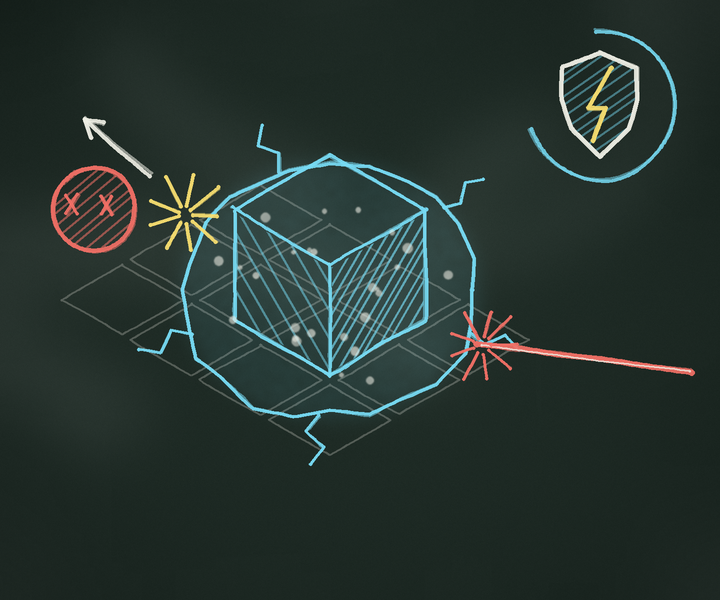
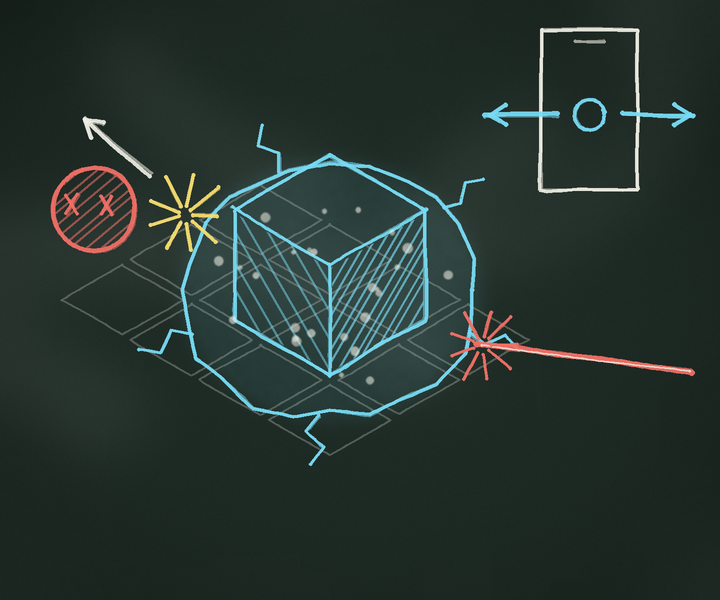
Inmunidad con deslizamiento lateral en lugar del botón
- Deslizar el dedo hacia un lado (izquierda o derecha) activa la inmunidad, con las mismas reglas que el dash y el pisotón; un dedo que se mueve sin llegar a deslizar ya no cuenta como toque en ninguna dirección.
- Se quita el botón del escudo (ImmunityButton y su icono).
- La barra de fuerza se vuelve azul eléctrico y se vacía con el tiempo de inmunidad que queda.
- Enciclopedia (texto y dibujo), consejo de carga y especificación actualizados.

Changed region(s): [[0.6722, 0.03, 0.9778, 0.33]]

diff --git a/tools/make_encyclopedia_art.py b/tools/make_encyclopedia_art.py
@@ -619,14 +619,6 @@ def draw_stomp(b):
     swipe(b, 625, 470, False)
 
 
-def shield_shape(c, s):
-    """Contorno de escudo (como el icono del botón) centrado en c, alto 2s."""
-    x, y = c
-    return [(x, y - s), (x + s * 0.72, y - s * 0.72), (x + s * 0.72, y - s * 0.1),
-            (x + s * 0.55, y + s * 0.45), (x, y + s), (x - s * 0.55, y + s * 0.45),
-            (x - s * 0.72, y - s * 0.1), (x - s * 0.72, y - s * 0.72)]
-
-
 def zigzag(b, a, z, rnd, color="cyan", width=3.5, steps=5, amp=14.0):
     """Rayo quebrado de a hasta z."""
     dx, dy = z[0] - a[0], z[1] - a[1]
@@ -678,12 +670,13 @@ def draw_immunity(b):
     b.line([s, z], "red", 6)
     b.line([s, z], "white", 2, alpha=0.8, passes=1)
     b.burst(z, 10, 34, 9, "red", 3)
-    # Arriba, el botón del escudo.
-    sh = shield_shape((600, 105), 52)
-    b.hatch(b.poly_mask(sh), "cyan", 9, -35, 2.2, 0.45)
-    b.poly(sh, "white", 4.5)
-    b.line([(608, 72), (588, 108), (606, 108), (594, 140)], "yellow", 4.5)
-    b.line(b.ellipse_pts((600, 105), 74, 74, -90, 160), "cyan", 3.5, alpha=0.85)
+    # Arriba, el gesto: el dedo desliza hacia un lado (da igual cuál).
+    x, y = 590, 110
+    b.poly([(x - 48, y - 80), (x + 48, y - 80), (x + 48, y + 80), (x - 48, y + 80)], "white", 3.5)
+    b.line([(x - 12, y - 68), (x + 12, y - 68)], "grey", 3)
+    b.circle((x, y + 5), 15, color="cyan", width=3.5)
+    b.arrow([(x - 34, y + 5), (x - 100, y + 5)], "cyan", 4.5, 16)
+    b.arrow([(x + 34, y + 5), (x + 100, y + 5)], "cyan", 4.5, 16)
 
 
 def draw_speed(b):

diff --git a/tools/make_ui_theme.py b/tools/make_ui_theme.py
@@ -93,13 +93,6 @@ def make_svgs():
               f'<rect x="13" y="10" width="8" height="28" rx="2" fill="{ICON}"/>'
               f'<rect x="27" y="10" width="8" height="28" rx="2" fill="{ICON}"/>')
 
-    # Inmunidad (botón de arriba en el centro de la partida): escudo con un rayo.
-    write_svg("hud_immunity.svg", 48, 48,
-              f'<path d="M24 4 L41 10 V22 C41 32 34 40 24 44 C14 40 7 32 7 22 V10 Z" fill="none" '
-              f'stroke="{ICON}" stroke-width="4" stroke-linejoin="round"/>'
-              f'<path d="M27 11 L17 26 H24 L21 37 L31 21 H24 Z" fill="{ICON}" stroke="{ICON}" '
-              f'stroke-width="1.5" stroke-linejoin="round"/>')
-
     # Enciclopedia: libro abierto (botón de la pausa), flechas de página y
     # cerrar.
     write_svg("enc_book.svg", 48, 48,

diff --git a/docs/especificacion_juego_cubo.md b/docs/especificacion_juego_cubo.md
@@ -36,7 +36,7 @@ El diseño busca combinar **lógica y planificación** con **controles y reglas 
 - Los controles son **relativos al rumbo del cubo**, no a direcciones absolutas del tablero o de la pantalla.
 - **Media vuelta:** pulsar **izquierda y derecha a la vez** (ver apartado 2.12).
 - **Dash** y **pisotón:** deslizar el dedo hacia arriba o hacia abajo (ver apartado 2.16).
-- **Inmunidad:** pulsar el botón del escudo, arriba en el centro (ver apartado 2.22).
+- **Inmunidad:** deslizar el dedo hacia un lado (ver apartado 2.22).
 
 **Ejemplo:** si el cubo avanza hacia arriba en el tablero y el jugador pulsa izquierda, vuelca sobre la arista inferior izquierda y continúa avanzando hacia la izquierda. Si después vuelve a pulsar izquierda, su nuevo rumbo será hacia abajo.
 
@@ -297,14 +297,15 @@ Dos acciones especiales que se piden **deslizando el dedo**, sin botones en pant
 
 ### 2.22. Inmunidad — En pruebas en el prototipo
 
-- El jugador la activa con el **botón del escudo** (un escudo con un rayo), **arriba en el centro** de la pantalla de juego. En PC, **Espacio** o **E**. De momento el botón está **siempre disponible** (más adelante se podrá desbloquear o limitar).
+- El jugador la activa **deslizando el dedo hacia un lado** (a la izquierda o a la derecha, da igual), en cualquier parte de la pantalla, con las mismas reglas que el deslizamiento del dash y el pisotón (apartado 7.5). En PC, **Espacio** o **E**. De momento está **siempre disponible** (más adelante se podrá desbloquear o limitar).
+- Al principio se probó con un botón arriba en el centro, pero se descartó: era la única acción con un botón en pantalla y quedaba lejos del dedo.
 - **Gasta toda la fuerza**, como el dash y el pisotón (apartado 2.16). Sin la fuerza llena se descarta con el mismo aviso (sonido, vibración leve y la barra tiembla en rojo). La fuerza **no se recarga mientras dura** la inmunidad: empieza a recargarse (2 s) al acabar.
-- Se activa **al momento**, al apoyar el dedo en el botón, sin esperar al siguiente límite entre casillas, y **no toca** el giro, la media vuelta, el dash o el pisotón pendientes.
+- Se activa **al momento**, en cuanto se reconoce el deslizamiento, sin esperar al siguiente límite entre casillas, y **no toca** el giro, la media vuelta, el dash o el pisotón pendientes.
 - Dura **3 s** (`immunity_time`). Es un valor configurable: podrá cambiar con otros eventos del juego (power ups, mejoras…).
 - Mientras dura, el cubo **no muere** por enemigos, pinchos, láseres (chocan con el cubo y se deshacen) ni bombas. **Sí se cae al vacío.**
 - **Efecto:** el cubo se ve **disuelto** (el mismo efecto que al reaparecer), que entra y sale en 0,3 s.
 - **Sonido:** un **chispazo eléctrico** al activarla y un **zumbido eléctrico constante** (en bucle) mientras dura, que se apaga en 0,25 s al acabar. En la pausa se detiene, como el resto del juego.
-- **Botón:** se ve apagado si la fuerza no está llena; mientras dura la inmunidad, el icono late en azul eléctrico y un **anillo** alrededor se vacía con el tiempo que queda.
+- **Barra de fuerza:** mientras dura la inmunidad se vuelve **azul eléctrico**, parpadea y se **vacía con el tiempo que queda**; al acabar, vuelve a mostrar la fuerza (vacía) recargándose.
 - Se pierde al **morir** (caída al vacío), al **reiniciar** el nivel y al **llegar a la meta**.
 - No cuenta como giro para las estrellas y el resolvedor de niveles no la usa.
 
@@ -363,7 +364,7 @@ Dos acciones especiales que se piden **deslizando el dedo**, sin botones en pant
 - **Cámara — Decidido:** vista **cenital ligeramente inclinada**, en perspectiva (unos 65° sobre el tablero). Se descartó la isométrica, que en vertical mostraba el tablero bastante más pequeño. La cámara es fija: no hay opción para cambiarla.
 - La animación del cubo debe mostrar claramente el vuelco entre casillas; no basta con trasladar el modelo o simular un deslizamiento.
 - **Orientación de pantalla — Confirmada:** el juego se muestra en **horizontal** (apaisado) en el móvil, porque así se maneja mejor con las dos manos. (Antes se jugaba en vertical; se cambió el 7 de noviembre de 2026.)
-- **Interfaz de juego — Confirmada:** el **número de nivel** y el **marcador de los retos de las estrellas** (apartado 2.21) arriba a la izquierda, el botón de la **inmunidad** arriba en el centro (apartado 2.22), el botón de **pausa** arriba a la derecha y las indicaciones «← Izquierda» y «Derecha →» en las esquinas inferiores. El tablero ocupa el resto de la pantalla. Los menús se describen en el apartado 7.
+- **Interfaz de juego — Confirmada:** el **número de nivel** y el **marcador de los retos de las estrellas** (apartado 2.21) arriba a la izquierda, el botón de **pausa** arriba a la derecha y las indicaciones «← Izquierda» y «Derecha →» en las esquinas inferiores. El tablero ocupa el resto de la pantalla. Los menús se describen en el apartado 7.
 - **Distancia de la cámara — Confirmada:** la cámara no se aleja más de una **distancia máxima**, la que hace falta para ver entero un tablero de 7×9 casillas (el antiguo nivel 4) en el espacio libre de la pantalla. Así el tablero no se ve diminuto aunque el mapa sea grande.
   - Si el tablero entero cabe a esa distancia, la cámara se acerca hasta encuadrarlo justo en el espacio libre entre los elementos de la interfaz y se queda quieta.
   - Si **no cabe**, la cámara **sigue al cubo** con un **pequeño retraso** y un movimiento **suave**: acelera y frena poco a poco, no se para en seco y no rebota cuando el cubo rebota. Al acercarse al borde del tablero deja de avanzar, de modo que no se ve vacío más allá del muro exterior. En la dirección en la que el tablero sí cabe, se queda centrada.
@@ -594,14 +595,13 @@ Dos acciones especiales que se piden **deslizando el dedo**, sin botones en pant
 ### 7.5. Controles
 
 - **Tocar la mitad izquierda de la pantalla** gira a la izquierda y **tocar la mitad derecha** gira a la derecha (relativo al rumbo, como en el apartado 2.3).
-- Toda la mitad de la pantalla es zona de toque, sin botones pequeños; cada toque cuenta como una pulsación. Tocar el botón de pausa o el de la inmunidad no cuenta como giro.
+- Toda la mitad de la pantalla es zona de toque, sin botones pequeños; cada toque cuenta como una pulsación. Tocar el botón de pausa no cuenta como giro.
 - **Media vuelta:** tocar las dos mitades a la vez, con un dedo en cada una (en el teclado, las dos flechas a la vez). Se resaltan las dos indicaciones.
-- **Inmunidad:** botón del escudo, arriba en el centro (apartado 2.22).
-- **Dash:** deslizar el dedo **hacia arriba**; **pisotón:** deslizar **hacia abajo** (apartado 2.16). Vale en cualquier mitad de la pantalla. Un deslizamiento es un recorrido vertical de al menos el **6 % del alto de la pantalla**, claramente más vertical que horizontal (1,5 veces), en **0,5 s o menos** desde que se apoya el dedo.
+- **Dash:** deslizar el dedo **hacia arriba**; **pisotón:** deslizar **hacia abajo** (apartado 2.16); **inmunidad:** deslizar **hacia un lado**, a la izquierda o a la derecha (apartado 2.22). Vale en cualquier mitad de la pantalla. Un deslizamiento es un recorrido vertical u horizontal de al menos el **6 % del alto de la pantalla**, claramente más en esa dirección que en la otra (1,5 veces), en **0,5 s o menos** desde que se apoya el dedo.
 - **Toque frente a deslizamiento:** un deslizamiento **nunca gira** el cubo.
   - El giro de un toque se pide **al levantar el dedo** o, si se deja apoyado sin moverse (menos del 2 % del alto), a los **80 ms**.
   - Si ese dedo apoyado acaba deslizando, **se anula el giro** que había pedido (salvo que el cubo ya lo haya hecho al llegar a una casilla en ese instante).
-  - Un dedo que se mueve **en vertical** sin llegar a deslizamiento no hace nada; si se mueve en horizontal, cuenta como toque.
+  - Un dedo que se mueve (más del 2 % del alto, en cualquier dirección) sin llegar a deslizamiento no hace nada.
   - Sin fuerza, el deslizamiento se descarta, pero tampoco gira.
   - El dedo que desliza no cuenta para la media vuelta.
 - Las indicaciones de las esquinas inferiores («← Izquierda» y «Derecha →») se resaltan al tocar cada lado.
